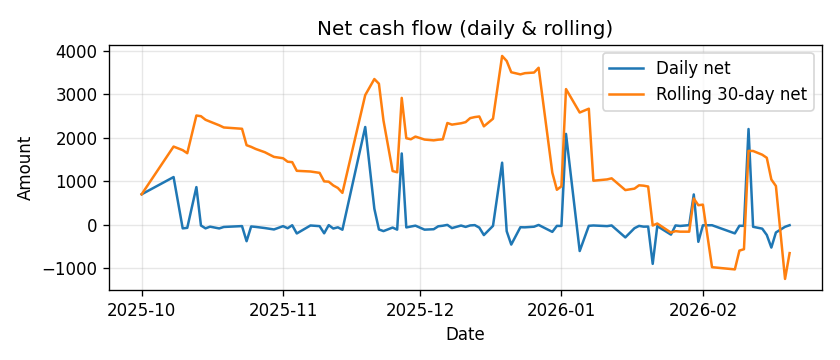
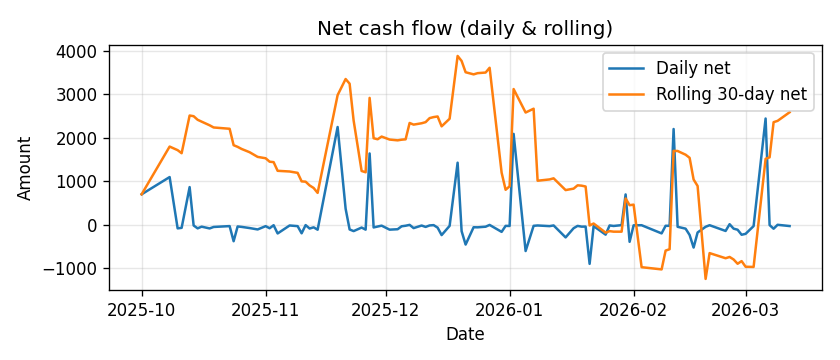
.

diff --git a/templates/documents.html b/templates/documents.html
@@ -1,0 +1,85 @@
+{% extends "base.html" %}
+
+{% block content %}
+<style>
+  .doc-container { max-width: 900px; margin: 0 auto; text-align: center; }
+  .folder-controls { margin-bottom: 20px; }
+  .folder-btn { padding: 10px 20px; font-size: 16px; margin: 0 5px; cursor: pointer; }
+  .viewer-window { width: 100%; height: 600px; border: 2px solid #ccc; border-radius: 8px; margin-bottom: 15px; }
+  .nav-controls { display: flex; justify-content: center; align-items: center; gap: 20px; font-size: 18px; }
+  .nav-btn { padding: 10px 20px; font-size: 18px; cursor: pointer; border-radius: 4px; border: 1px solid #ccc; background: #eee; }
+  .nav-btn:hover { background: #ddd; }
+</style>
+
+<div class="doc-container">
+  <h2>Document Viewer</h2>
+  
+  <div class="folder-controls">
+    <button class="folder-btn" onclick="loadFolder('Cedolini')">Cedolini</button>
+    <button class="folder-btn" onclick="loadFolder('Tasse - Detrazioni Fiscali')">Tasse - Detrazioni Fiscali</button>
+    <br><br>
+    <strong>Viewing: </strong> <span id="current-folder-label">Cedolini</span>
+  </div>
+
+  <iframe id="file-viewer" class="viewer-window"></iframe>
+
+  <div class="nav-controls">
+    <button class="nav-btn" onclick="prevFile()">&#8592;</button>
+    <span id="file-indicator">Loading files...</span>
+    <button class="nav-btn" onclick="nextFile()">&#8594;</button>
+  </div>
+</div>
+
+<script>
+  let currentFiles = [];
+  let currentIndex = 0;
+  let currentFolder = "Cedolini"; // Default
+
+  function loadFolder(folder) {
+    currentFolder = folder;
+    document.getElementById("current-folder-label").innerText = folder;
+    
+    fetch(`/api/files/${folder}`)
+      .then(response => response.json())
+      .then(data => {
+        currentFiles = data.files || [];
+        currentIndex = 0;
+        updateViewer();
+      });
+  }
+
+  function updateViewer() {
+    const viewer = document.getElementById("file-viewer");
+    const indicator = document.getElementById("file-indicator");
+
+    if (currentFiles.length === 0) {
+      viewer.src = "";
+      indicator.innerText = "No files found in this folder.";
+      return;
+    }
+
+    const file = currentFiles[currentIndex];
+    viewer.src = `/document/${currentFolder}/${file}`;
+    indicator.innerText = `File ${currentIndex + 1} of ${currentFiles.length} : ${file}`;
+  }
+
+  function prevFile() {
+    if (currentFiles.length > 0) {
+      // Loop back to the end if we hit the beginning
+      currentIndex = (currentIndex - 1 + currentFiles.length) % currentFiles.length;
+      updateViewer();
+    }
+  }
+
+  function nextFile() {
+    if (currentFiles.length > 0) {
+      // Loop back to the start if we hit the end
+      currentIndex = (currentIndex + 1) % currentFiles.length;
+      updateViewer();
+    }
+  }
+
+  // Load the default folder when the page finishes loading
+  window.onload = () => loadFolder('Cedolini');
+</script>
+{% endblock %}

diff --git a/templates/base.html b/templates/base.html
@@ -12,6 +12,7 @@
     <nav>
       <a href="{{ url_for('index') }}">Dashboard</a>
       <a href="{{ url_for('analysis') }}">Analysis</a>
+      <a href="{{ url_for('documents') }}">Documents</a>
       <a href="{{ url_for('add_transaction', type='expense') }}">+ Expense</a>
       <a href="{{ url_for('add_transaction', type='income') }}">+ Income</a>
       <a href="{{ url_for('add_transaction', type='investment') }}">+ Investment</a>

diff --git a/app_complete.py b/app_complete.py
@@ -1,7 +1,8 @@
 # app.py
-import pandas as pd
+import os, pandas as pd
 from datetime import date
-from flask import Flask, render_template, request, redirect, url_for
+from flask import Flask, render_template, request, redirect, url_for, jsonify, send_from_directory
+from config import DOCUMENTS_DIR 
 
 from config import (
     EXPENSE_CATEGORIES,
@@ -309,6 +310,31 @@ def analysis():
     )
 
 
+
[email redacted]("/documents")
+def documents():
+    return render_template("documents.html")
+
[email redacted]("/api/files/<folder>")
+def get_files(folder):
+    """Returns a JSON list of files in the requested folder."""
+    if folder not in ["Cedolini", "Tasse - Detrazioni Fiscali"]:
+        return jsonify({"error": "Invalid folder"}), 400
+        
+    folder_path = DOCUMENTS_DIR / folder
+    if not folder_path.exists():
+        return jsonify({"files": []})
+        
+    # Get all files (ignore subdirectories)
+    files = [f for f in os.listdir(folder_path) if os.path.isfile(folder_path / f)]
+    return jsonify({"files": sorted(files)})
+
[email redacted]("/document/<folder>/<filename>")
+def serve_document(folder, filename):
+    """Serves the actual file to the iframe."""
+    if folder not in ["Cedolini", "Tasse - Detrazioni Fiscali"]:
+        return "Invalid folder", 400
+    return send_from_directory(DOCUMENTS_DIR / folder, filename)
 
 
 if __name__ == "__main__":

diff --git a/config.py b/config.py
@@ -7,6 +7,12 @@ BASE_DIR = Path(__file__).resolve().parent
 DATA_DIR = BASE_DIR / "data"
 DATA_DIR.mkdir(exist_ok=True, parents=True)
 
+DOCUMENTS_DIR = BASE_DIR / "Documents"
+DOCUMENTS_DIR.mkdir(exist_ok=True, parents=True)
+
+(DOCUMENTS_DIR / "Cedolini").mkdir(exist_ok=True, parents=True)
+(DOCUMENTS_DIR / "Tasse - Detrazioni Fiscali").mkdir(exist_ok=True, parents=True)
+
 EXPENSES_CSV = DATA_DIR / "expenses.csv"
 INCOMES_CSV = DATA_DIR / "incomes.csv"
 INVESTMENTS_CSV = DATA_DIR / "investments.csv"